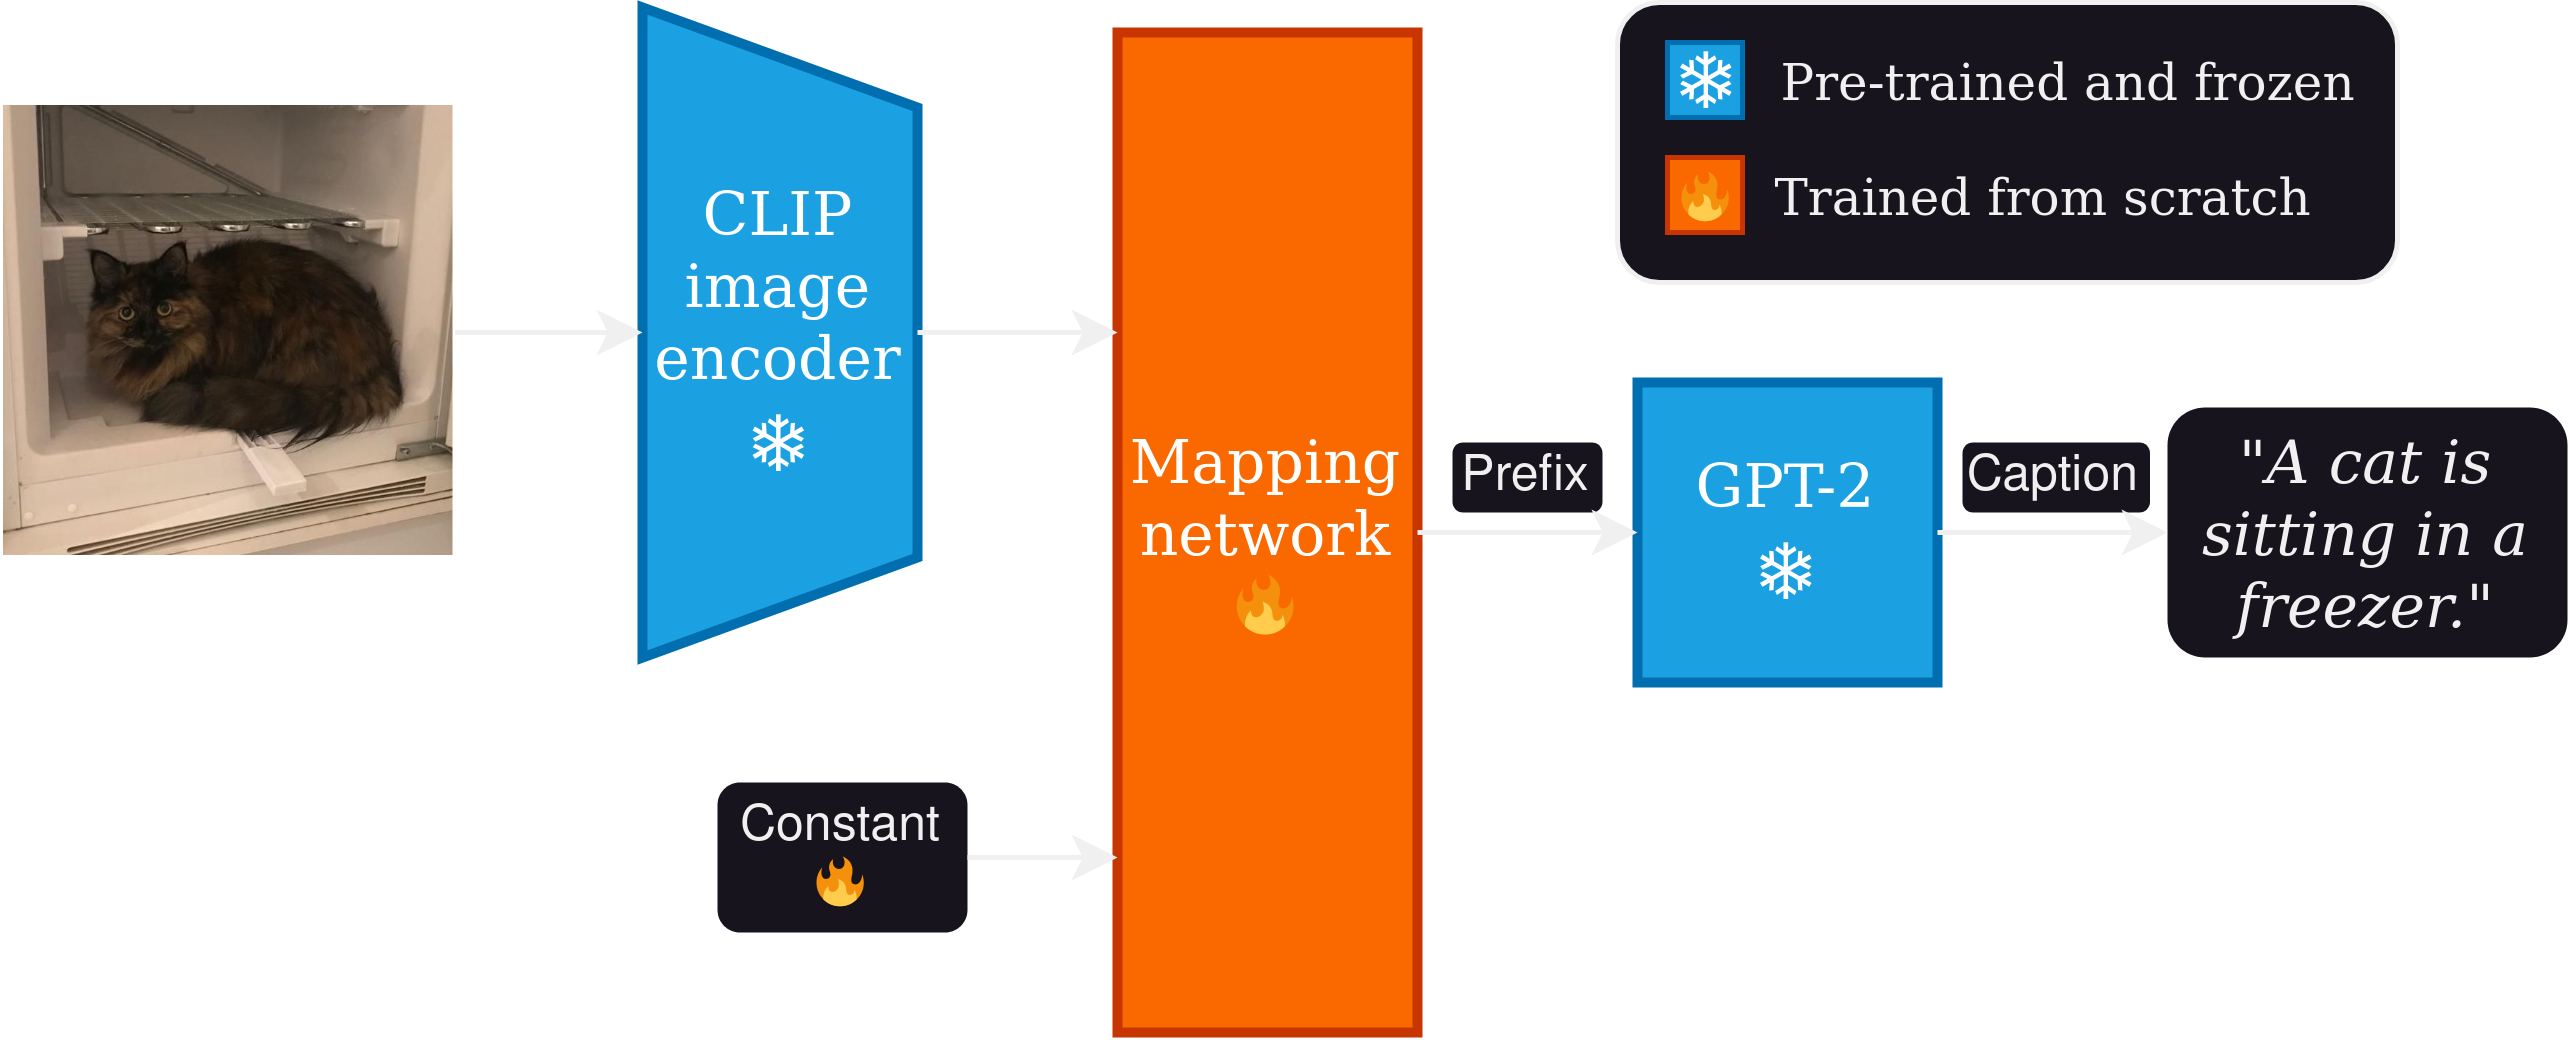
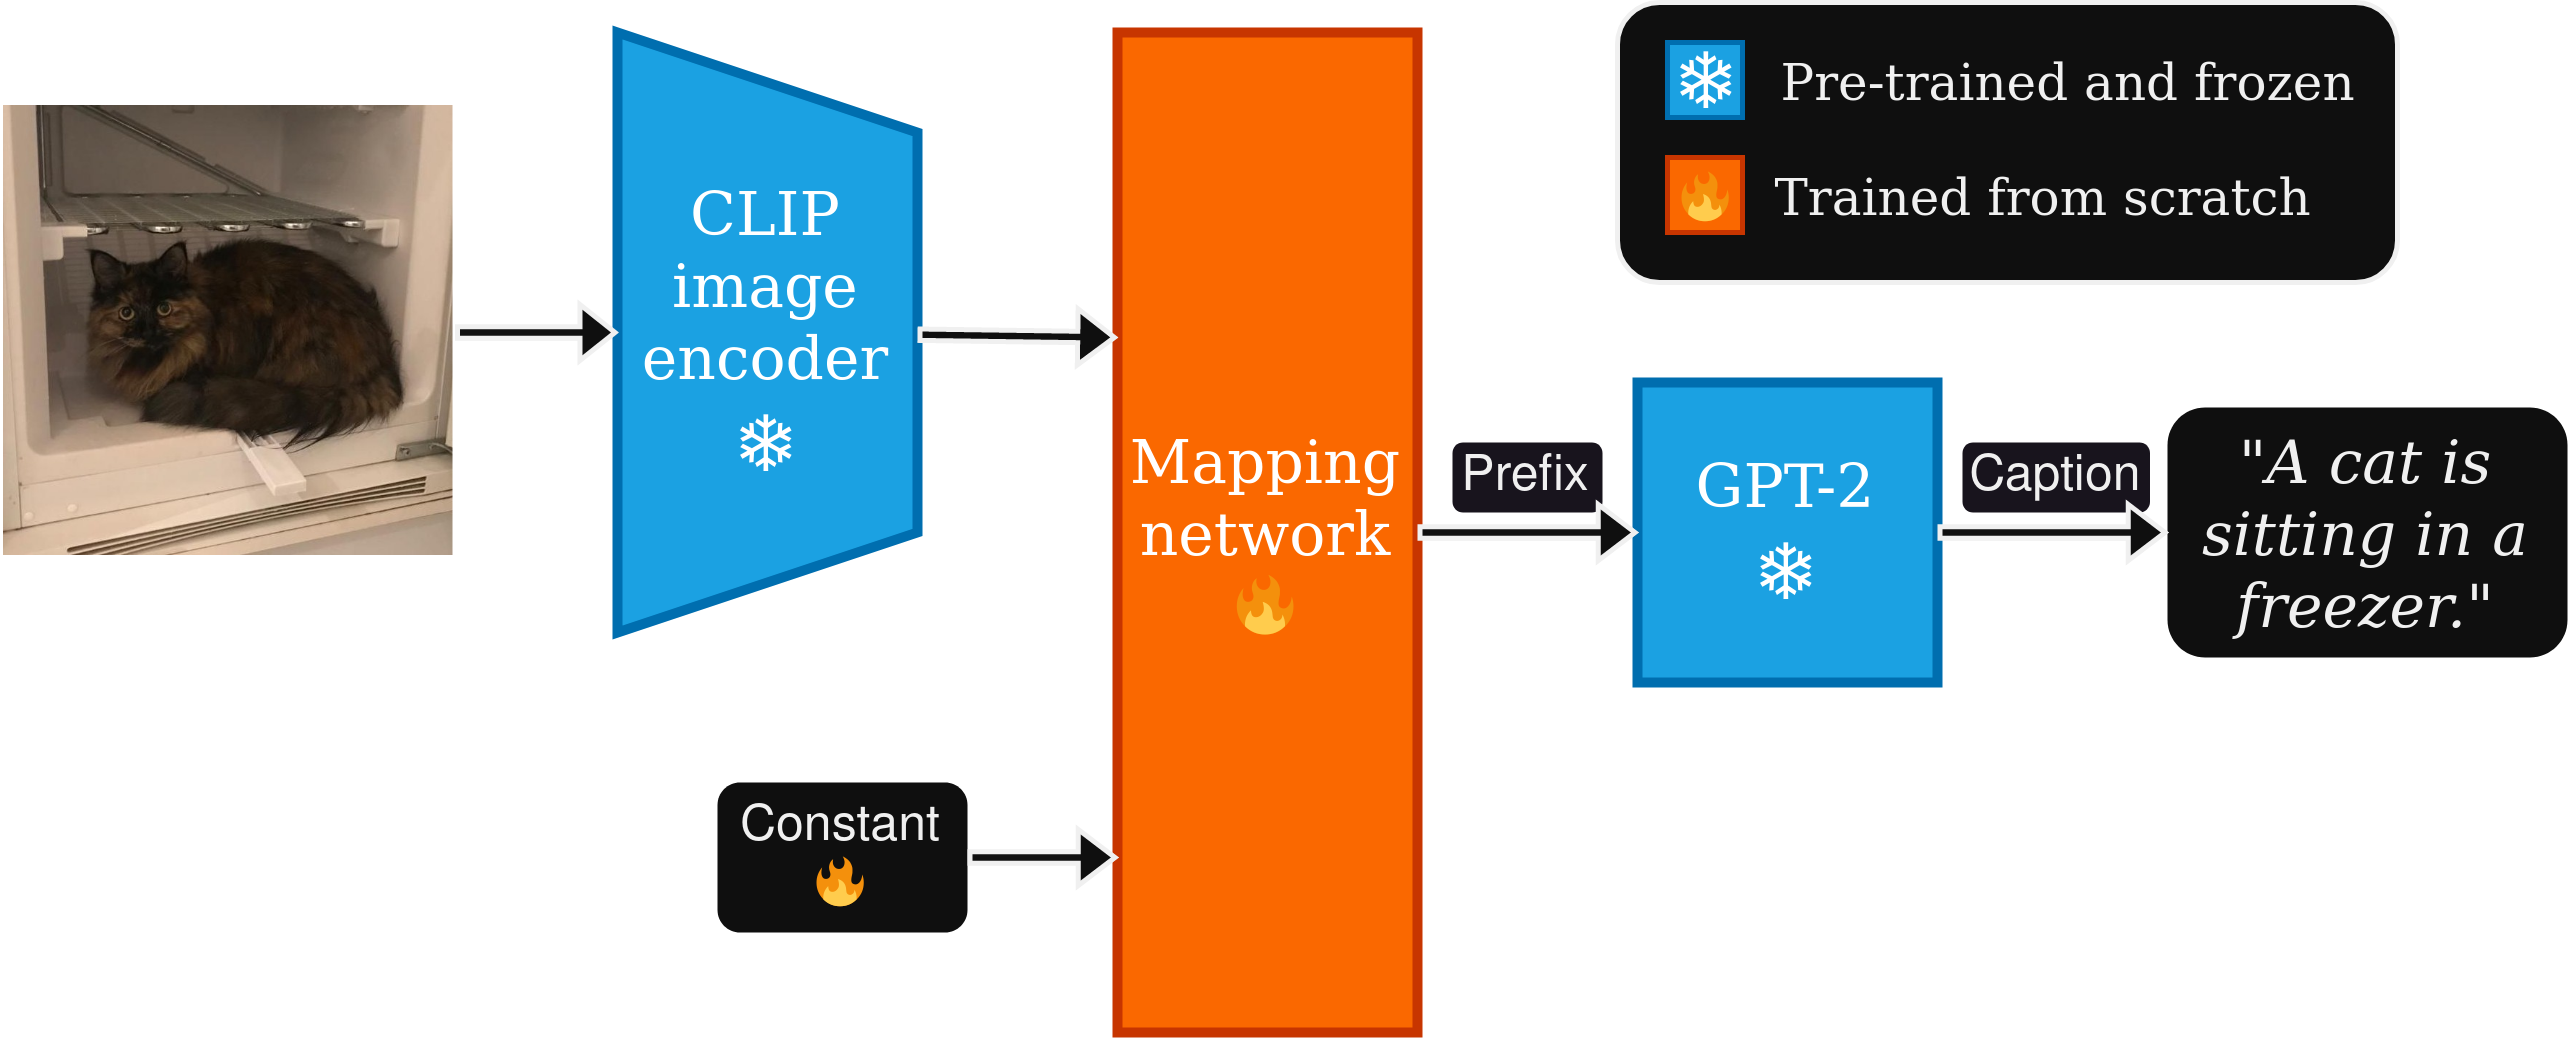
Added data loading section & updated images

diff --git a/blogpost.md b/blogpost.md
@@ -17,6 +17,7 @@
 - [Our contribution](#our-contribution)
 - [Datasets](#datasets)
   - [Pre-processing](#pre-processing)
+  - [Data loading](#data-loading)
 - [Experimental details](#experimental-details)
 - [Results](#results)
 - [Conclusion \& Discussion](#conclusion--discussion)
@@ -84,19 +85,30 @@ Thus, these memory layers incorporate both self-attention (computed using the co
 
 
 # Datasets
-In line with the methodology of ClipCap, we will use the COCO dataset for the initial pretraining stage of our mapping network. This allows the model to learn a general understanding of the relationship between images and text.
+In line with the methodology of ClipCap, we will use the COCO dataset[^lin2014coco] for the initial pretraining stage of our mapping network. This allows the model to learn a general understanding of the relationship between images and text.
 
-Following the pretraining, we will employ the ActivityNet Captions[^krishna2017dense] dataset for fine-tuning. The ActivityNet Captions dataset provides a more task-specific data source explicitly designed for captioning temporally spread-out activities in videos. It contains 20k videos with 100k detailed descriptions of sequences of events within them, making it an optimal choice for our research.
+Following the pretraining, we will employ the ActivityNet Captions dataset[^krishna2017dense] for fine-tuning. The ActivityNet Captions dataset provides a more task-specific data source explicitly designed for captioning temporally spread-out activities in videos. It contains 20k videos with 100k detailed descriptions of sequences of events within them. To the best of our knowledge, this makes it the optimal choice for our research.
 
 ## Pre-processing
-Videos are converted into image frames at a rate of 5 frames per second (fps). Since our focus is solely on captioning and not temporal action localization, we extract all frames from the start to the end of each captioned segment, treating each as an independent _video clip_. The frames are individually embedded using the CLIP image encoder, and the captions are tokenized using the GPT-2 tokenizer. Given that we are only finetuning the model, we will use a small subset of ActivityNet Captions. The final pre-processed datasets can be downloaded with the links provided in our GitHub repository[^github]. Some statistics of the dataset splits we used for training and testing are shown below.
+Videos are converted into image frames at a rate of 5 frames per second (fps). Since our focus is solely on captioning and not temporal action localization, we extract all frames from the start to the end of each captioned segment, treating each as an independent _video clip_. We will denote the set of video clips by $\{c_i\}_{i=1}^C$, where the amount of frames of clip $c_i$ is given by $f(c_i)$ and the total number of frames is given by $F = \sum_{i=1}^C f(c_i)$. The frames are individually embedded using the CLIP image encoder, and the captions are tokenized using the GPT-2 tokenizer. Given that we are only finetuning the model, we will use only a subset of ActivityNet Captions. The final pre-processed datasets can be downloaded with the links provided in our GitHub repository[^github]. Some statistics of the dataset splits we used for training and testing are shown below.
 
-|                | __Train__ | __Test__ |
-|----------------|-----------|----------|
-| Videos         | 300       | 100      |
-| Video clips    | 1112      | 371      |
-| Frames         | 198020    | 69731    |
-| Length (hours) | 275       | 97       |
+|                 | __Train__ | __Test__ |
+|-----------------|-----------|----------|
+| Videos          | 300       | 100      |
+| Video clips $C$ | 1112      | 371      |
+| Frames $F$      | 198020    | 69731    |
+| Length (hours)  | 275       | 97       |
+
+## Data loading
+Since the external memory layers of the Memorizing Transformer need to be updated sequentially, we have to process each video clip's frames one after the other. This would effectively make the batch size equal to 1, making the training process very inefficient. Instead, we parallelize the operation by processing multiple video clips at a time. An illustration of this parallel data loading process is shown in [figure 2]. In this visualization, video clips are layed out horizontally and stacked vertically, where the amount of rows correponds to the batch size $B$ and the amount of columns is the number of batching steps $S$.
+
+[figure 2]: images/dataloader_activitynet.png "Parallel data processing"
+![Parallel data processing][figure 2]
+_[Figure 2]: Schematic of the parallel data loading process. The video clip indices are just for illustration purposes; they correspond with neither to the real video clips nor their lengths. The red blocks with $\varnothing$ represent padding frames._
+
+It should be noted that since the video clips may not contain the same amount of frames, the rows in the table may not stop at the same step. When a step contains less then $B$ frames, the rest is filled with padding frames. Now, the more steps we have, the longer the training time of our model will be. Thus, we want to minimize the amount of steps $S$.
+
+Mathematically speaking, each row can be seen as a _bin_, where we want to partition a list of numbers $f(c_1), \dots, f(c_C)$ into $B$ bins such that the maximum bin size is minimized. This corresponds to the multiway number parititioning problem[^graham1969bounds], which is a well-known problem in computer science[^wikipedia2023mnp]. Unfortunately, this problem is NP-complete[^garey1979computers], so we cannot find an optimal solution in polynomial time. To evaluate alternative approximation algorithms, the _approximation ratio_ can be used, which is the largest bin returned by such an algorithm divided by the largest sum in the optimal solution. In our code, we use the `prtpy` implementation[^coinor2023prtpy] of the Multifit algorithm[^coffman1978application] [^wikipedia2023multifit], which has a worst-case approximation ratio of 13/11 in the general $B$-bin case[^yue1990exact]. This implies that the amount of padding frames we add will be bounded by $\frac{13}{11} B S - F$.
 
 
 # Experimental details
@@ -129,6 +141,20 @@ Additionally, using the M1 Max GPU across all training processes maintains consi
 
 # References
 [^github]: Our GitHub repository. https://github.com/SebastiaanJohn/knn-memory-clipcap
+
+[^graham1969bounds]: Graham, R. L. (1969). Bounds on multiprocessing timing anomalies. SIAM journal on Applied Mathematics, 17(2), 416-429.
+
+[^garey1979computers]: Garey, M. R., & Johnson, D. S. (1979). Computers and intractability (Vol. 174). San Francisco: freeman, 238.
+
+[^coinor2023prtpy]: The `prtpy` Python library. https://github.com/coin-or/prtpy
+
+[^coffman1978application]: Coffman, Jr, E. G., Garey, M. R., & Johnson, D. S. (1978). An application of bin-packing to multiprocessor scheduling. SIAM Journal on Computing, 7(1), 1-17.
+
+[^wikipedia2023mnp]: The multiway number partitioning problem. https://en.wikipedia.org/wiki/Multiway_number_partitioning
+
+[^wikipedia2023multifit]: The Multifit algorithm. https://en.wikipedia.org/wiki/Multifit_algorithm
+
+[^yue1990exact]: Yue, M. (1990). On the exact upper bound for the multifit processor scheduling algorithm. Annals of Operations Research, 24(1), 233-259.
 
 [^mokady2021clipcap]: Mokady, R., Hertz, A., & Bermano, A. H. (2021). Clipcap: Clip prefix for image captioning. arXiv preprint arXiv:2111.09734.
 
